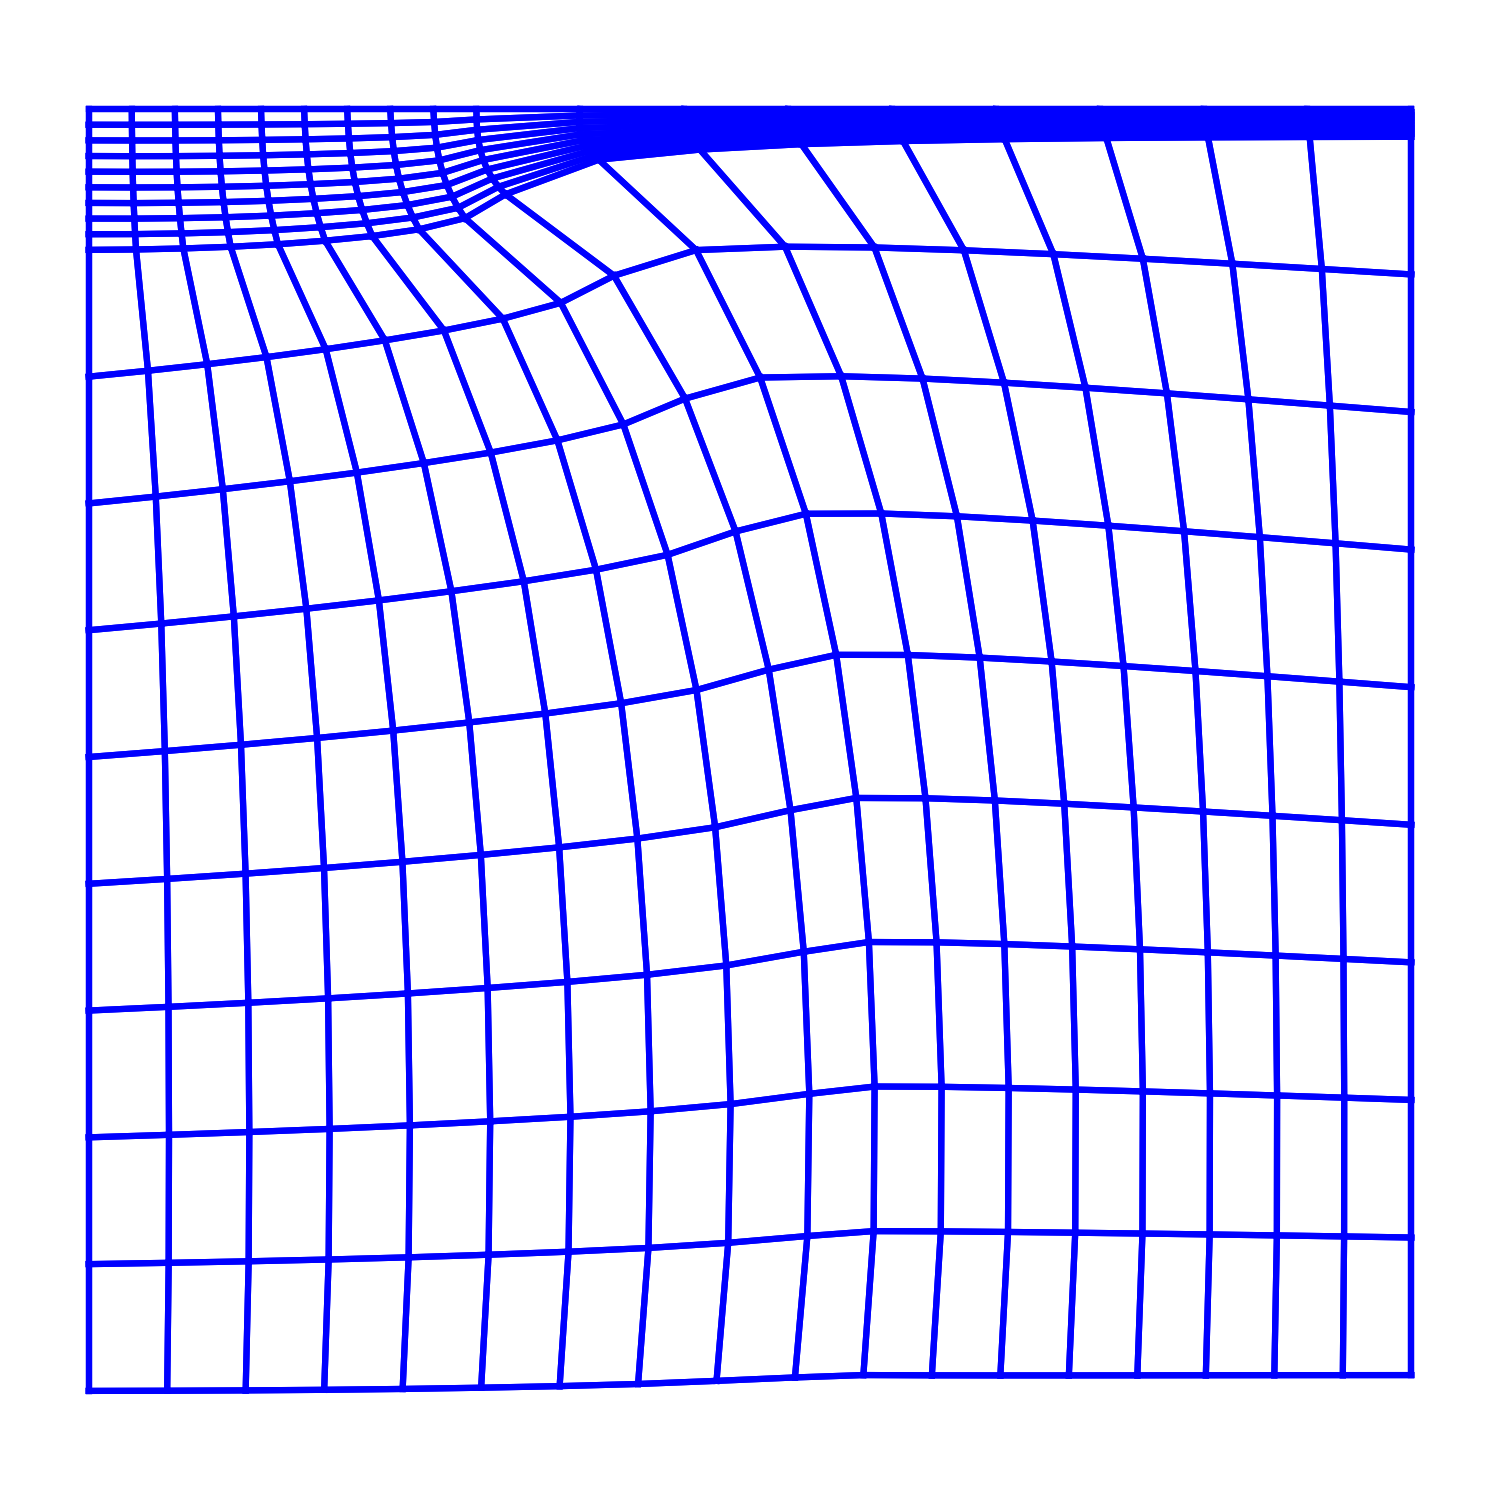
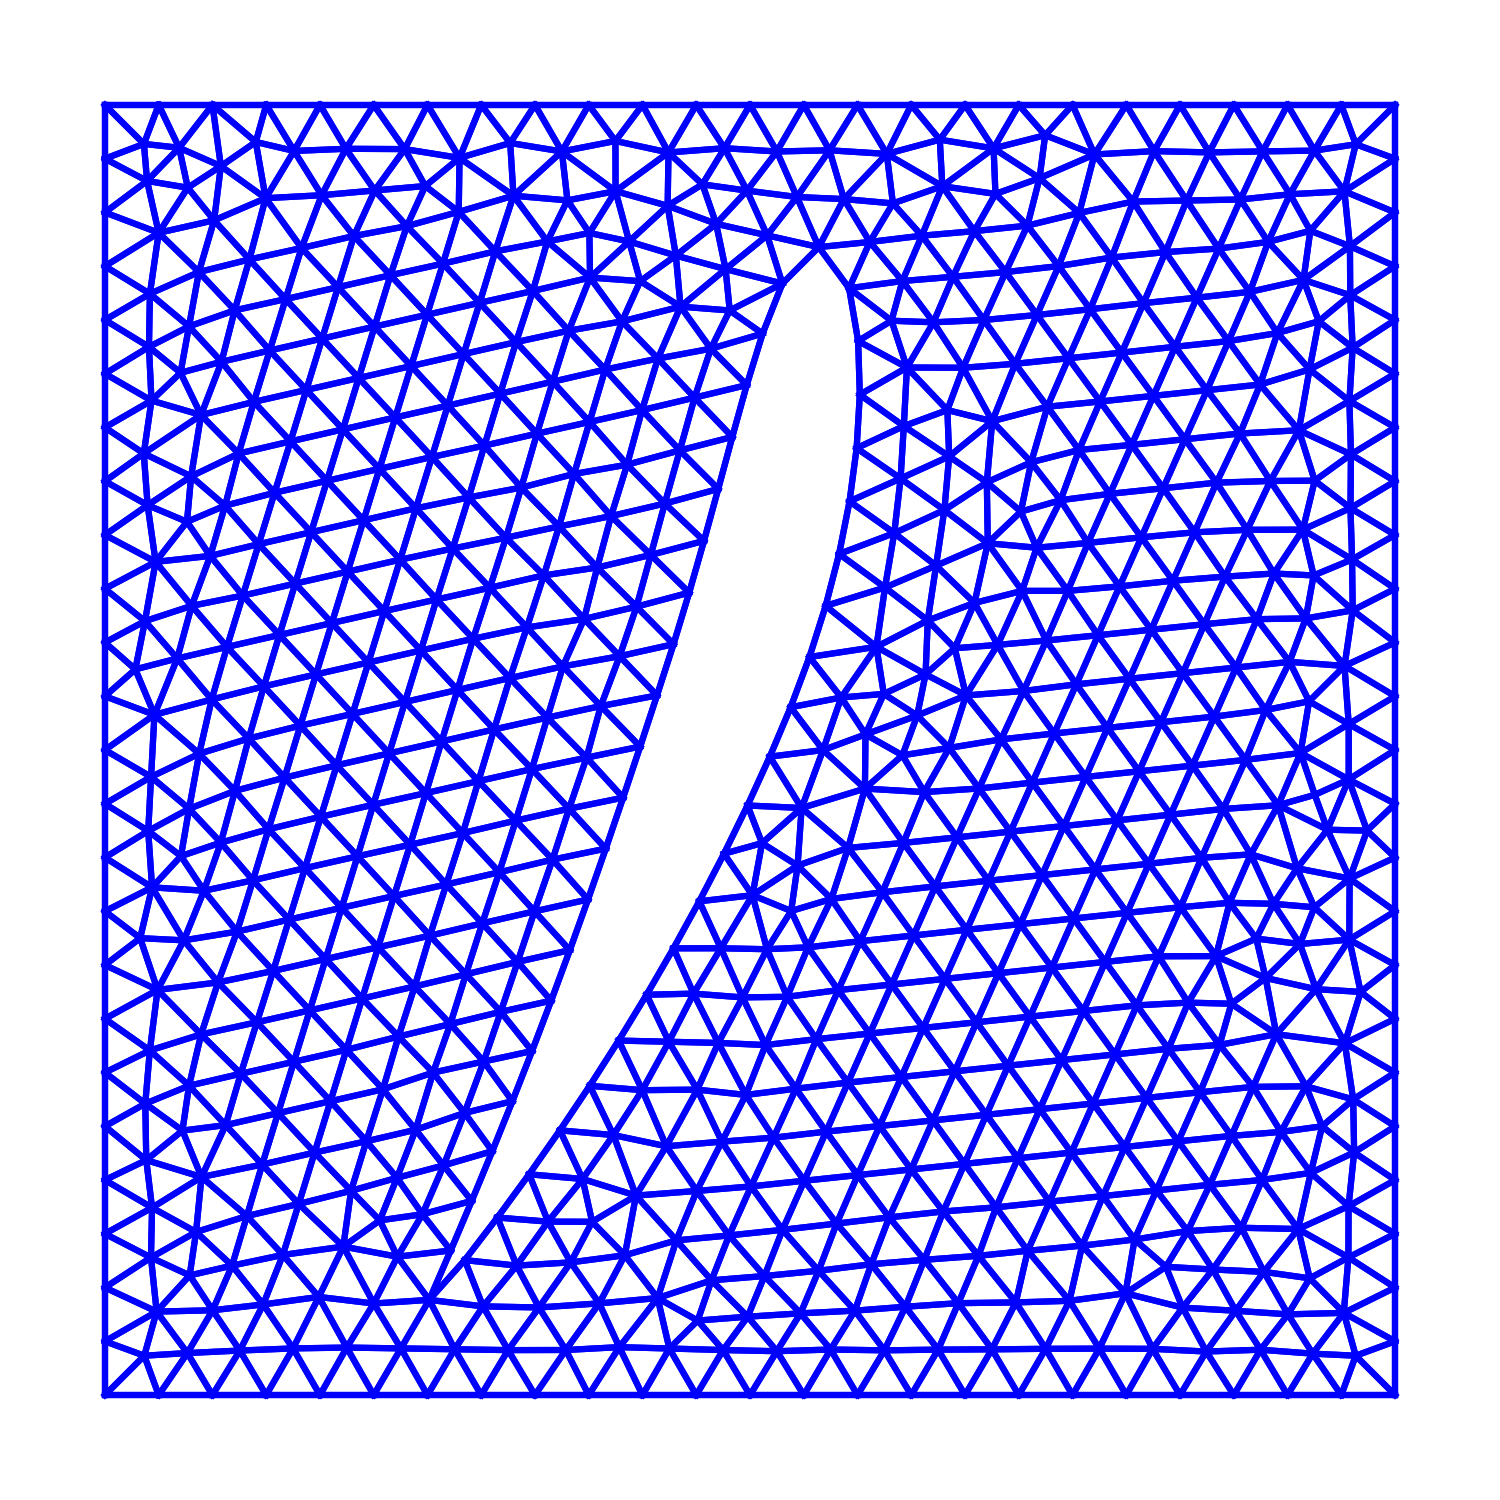
jupyter notebook to investigate streamline post processing

diff --git a/quadmesh_generator.py b/quadmesh_generator.py
@@ -1,0 +1,67 @@
+
+from tools import MeshGenerator, NACA_airfoil 
+import numpy as np
+import torch
+import os
+import multiprocessing as mp
+import time
+
+def get_mesh():
+    np.random.seed(int(time.time() * 1000) % 2**32 + os.getpid())
+    
+    try:
+        airfoil                     = NACA_airfoil()
+        random_lc                   =  0.04+ 0.02*np.random.rand()
+        mesh_gen                    = MeshGenerator(airfoil, quadMesh=True, lc=random_lc)
+        return mesh_gen.mesh
+    except Exception as e:
+        print(f'\n domain partition failed: {e} \n')
+ 
+def main():
+
+    number_of_meshes =1000
+    checkpoint_interval = 100  # Speichere alle x erfolgreiche Meshes
+    checkpoint_dir = "./saved_meshes/quad_meshes/checkpoints"
+
+    os.makedirs(checkpoint_dir, exist_ok=True)
+
+    database = []
+    successful_meshes = 0  
+    failed_meshes = 0  
+    counter = 0
+    for n in range(number_of_meshes):
+        is_valid = False
+        
+        while is_valid == False:
+            try:
+                mesh_data = mp.Pool(1).apply_async(get_mesh).get(timeout=300)
+
+            except Exception as e:
+                      print(f"timeout_error: {e}")
+            counter += 1             
+            print(f"\n \n \n counter: {counter} \n \n \n")               
+            if mesh_data is not None:
+                is_valid = True    
+                database.append(mesh_data)
+                successful_meshes += 1
+                print(f"successful meshes: {successful_meshes}")
+                if (n+1)%checkpoint_interval==0:
+                    try:
+                            checkpoint_path = os.path.join(checkpoint_dir, f'checkpoint_mesh_{successful_meshes}.pt')
+                            torch.save(database, checkpoint_path)
+                            database = [] #resett database
+                            print(f"Checkpoint gespeichert: {checkpoint_path}")
+                    except Exception as checkpoint_error:
+                            print(f"Warnung: Fehler beim Speichern des Checkpoints: {checkpoint_error}")
+            else:
+                failed_meshes += 1
+                print(f"Warning: Transifinite Mesh is not valid")
+
+    print(f'total failed meshes {failed_meshes}; total successful meshes {successful_meshes }') 
+
+    checkpoint_path = os.path.join(checkpoint_dir, f'checkpoint_mesh_{successful_meshes}.pt')
+    torch.save(database, checkpoint_path)
+    print(f"Final Checkpoint reached")
+
+if __name__ == "__main__":                                                                         
+    main()
